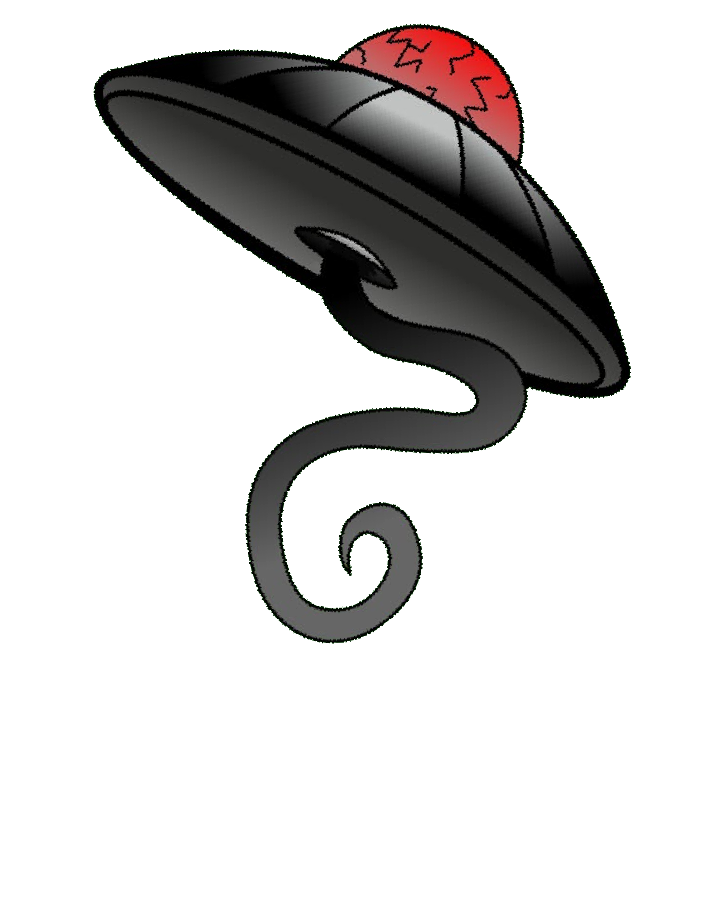
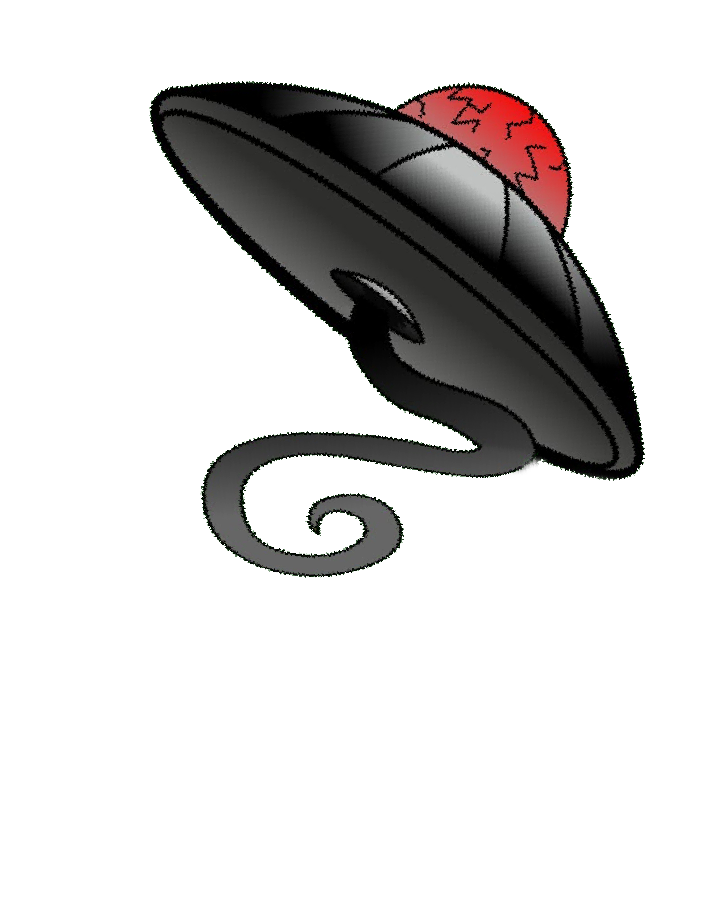
feat: adicionar mais oponentes

Changed region(s): [[0.1248, 0.0, 0.9362, 0.7023]]

diff --git a/game.js b/game.js
@@ -42,6 +42,28 @@ let countTransparency = 0;
 
 // - Funções Auxiliares -
 
+function randomizeSprite(character) {
+    const spritesheets = [
+        {
+            idle:    "assets/zebraIdle.png",
+            pulling: "assets/zebraPulling.png",
+            pulled:  "assets/zebraPulled.png"
+        },
+        {
+            idle:    "assets/ovniIdle.png",
+            pulling: "assets/ovniPulling.png",
+            pulled:  "assets/ovniPulled.png"
+        }
+    ];
+    const selectedSpritesheet = spritesheets[Math.floor(Math.random() * spritesheets.length)];
+
+    character.idleSprite = loadImage(selectedSpritesheet.idle);
+    character.pullingSprite = loadImage(selectedSpritesheet.pulling);
+    character.pulledSprite = loadImage(selectedSpritesheet.pulled);
+
+    character.sprite = character.pulledSprite;
+}
+
 function returnToDefaultEvent() {
     gCurrentEvent = EVENTS.NONE;
     gPullingSystem.randomizeContained();
@@ -341,9 +363,9 @@ function setup() {
         characterWidth,
         characterHeight,
         color(122, 18, 59),
-        loadImage("assets/ovniIdle.png"),
-        loadImage("assets/ovniPulling.png"),
-        loadImage("assets/ovniPulled.png")
+        loadImage("assets/cobraIdle.png"),
+        loadImage("assets/cobraPulling.png"),
+        loadImage("assets/cobraPulled.png")
     );
     gDefaultOpponentPosition = gOpponent.x;
 
@@ -514,6 +536,7 @@ function draw() {
                 gEventTarget.width = gLastFallenWidth;
                 gEventTarget.height = gLastFallenHeight;
 
+                randomizeSprite(gOpponent);
                 gLastEventFrame = frameCount;
                 gCurrentEvent = EVENTS.REAPEARANCE;
 
